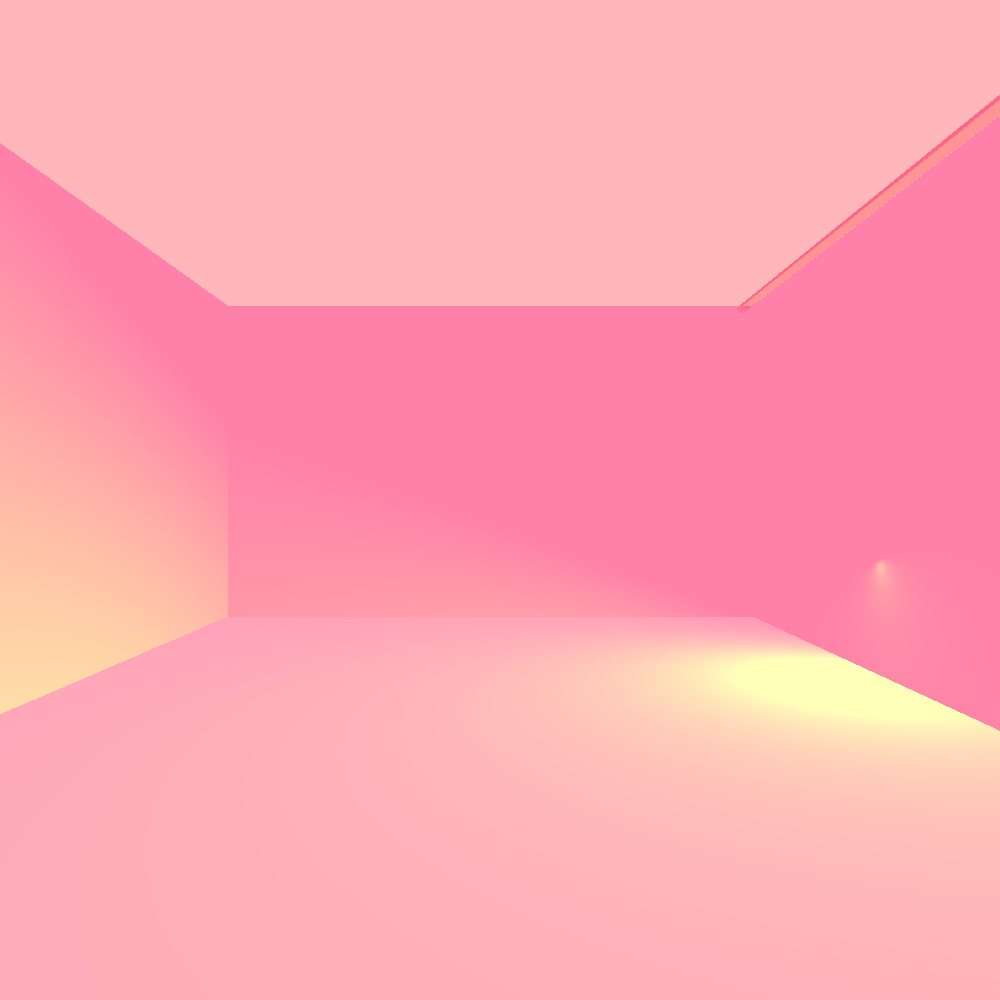
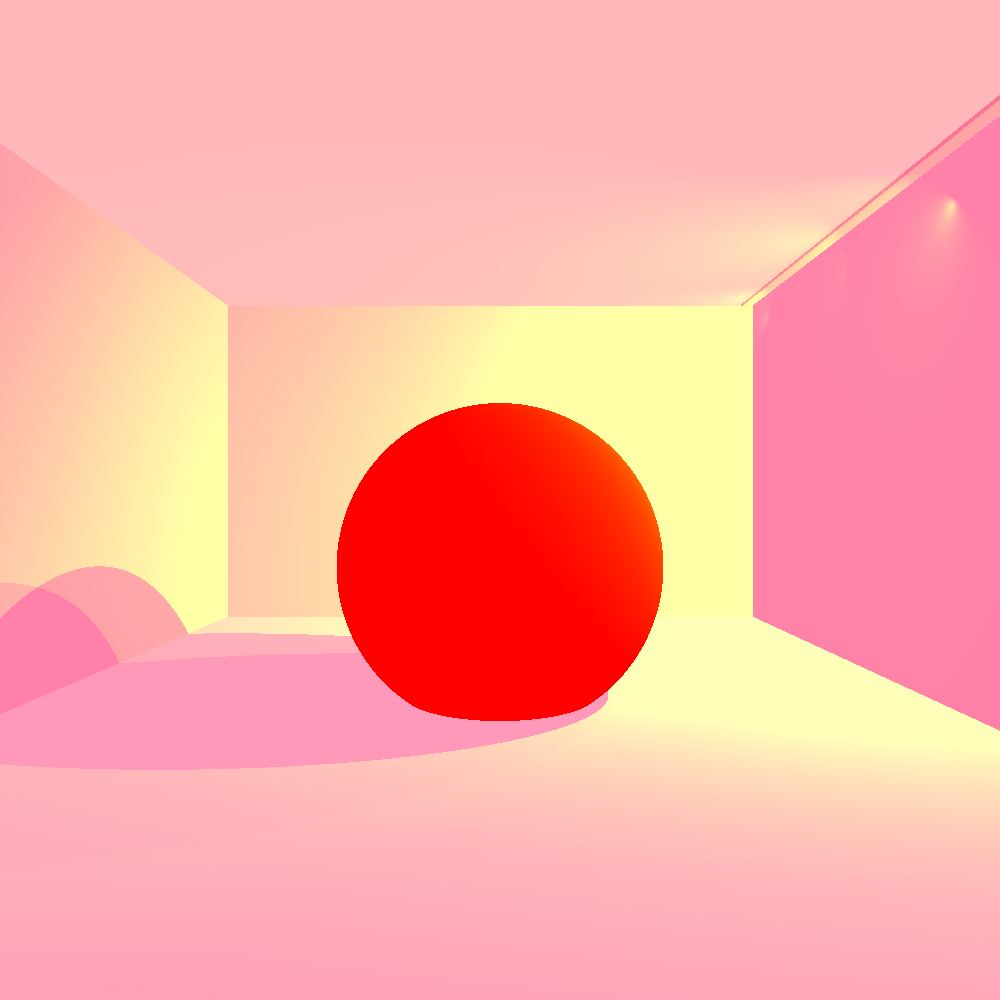
finish with the LED

diff --git a/unitTests/renderer/pinkRoomWithLed.java b/unitTests/renderer/pinkRoomWithLed.java
@@ -15,7 +15,9 @@ public class pinkRoomWithLed {
      */
     @Test
     public void miniProject1() {
-        Scene scene1 = new Scene.SceneBuilder("Test scene").build();
+
+        Scene scene1 = new Scene.SceneBuilder("Test scene")
+                .build();
 
         Camera camera3 = new Camera(new Point(-30, 30, 160),
                 new Vector(0, 0, -1), new Vector(0, 1, 0)) //
@@ -30,11 +32,9 @@ public class pinkRoomWithLed {
                 .setEmission(new Color(255, 183, 185))
                 .setMaterial(new Material().setKd(0.5));
 
-
         Geometry wallRight = new Plane(new Point(35, 0, 0), new Vector(1, 0, 0))
                 .setEmission(new Color(255, 128, 168))
                 .setMaterial(new Material().setKd(0.5));
-
 
         Geometry wallLeft = new Plane(new Point(-100, 0, 0), new Vector(1, 0, 0)) //++
                 .setEmission(new Color(255, 128, 168))
@@ -44,13 +44,17 @@ public class pinkRoomWithLed {
                 .setEmission(new Color(255, 128, 168))
                 .setMaterial(new Material().setKd(0.5));
 
-        //double radius = 2;
-        Ray axisray = new Ray(new Point(32, 79, 0), new Vector(0, 0, 1));
-        //double length = 1;
-
-        Geometry led = new Cylinder( 1, axisray, 0.1)
+        Geometry Sphere = new Sphere(new Point(-30, 20, 50), 25)
                 .setEmission(new Color(RED))
-                .setMaterial(new Material().setKd(0.5).setKs(0.5).setShininess(100).setKt(0.9));
+                .setMaterial(new Material().setKd(0.5));
+
+        double radius = 1;
+        Ray axisray = new Ray(new Point(32, 79, 0), new Vector(0, 0, 1));
+        double length = 0.1;
+
+        Geometry led = new Cylinder( radius, axisray, length)
+                .setEmission(new Color(RED))
+                .setMaterial(new Material().setKd(0.5).setKs(0.5).setShininess(100).setKt(0.95));
 
         //points lights
 //        for(int i = -15; i < 100; i+=5)
@@ -62,20 +66,26 @@ public class pinkRoomWithLed {
 //                    0.0111));
 //        }
 
-        //spot light
-//        {
-//            scene1.lights.add(new SpotLight(new Color(YELLOW),
-//                    new Point(34, 73, -10),
-//                    new Vector(-100, 0, -15)));
-//        }
-
-        {
-            scene1.lights.add(new SpotLight(new Color(YELLOW).scale(1.5),
-                    new Point(34, 20, 40),
-                    new Vector(-34, -70, 30)));
+        //spot lights:
+        {//middle up
+            scene1.lights.add(new SpotLight(new Color(YELLOW).scale(0.5),
+                    new Point(34, 73, -10),
+                    new Vector(0, 100, -100)));
         }
-        scene1.geometries.add(roof, wallRight, wallLeft, wallFront, floor, led);
 
+        {//middle right
+            scene1.lights.add(new SpotLight(new Color(YELLOW).scale(0.5),
+                    new Point(34, 73, 30),
+                    new Vector(-100, 0, -100)));
+        }
+
+        {//middle right
+            scene1.lights.add(new SpotLight(new Color(YELLOW).scale(1.5),
+                    new Point(34, 73, 60),
+                    new Vector(0, -100, -100)));
+        }
+
+       scene1.geometries.add(roof, wallRight, wallLeft, wallFront, floor, led, Sphere);
 
         ImageWriter imageWriter = new ImageWriter("pinkRoom", 1000, 1000);
         camera3.setImageWriter(imageWriter)

diff --git a/src/geometries/Sphere.java b/src/geometries/Sphere.java
@@ -144,59 +144,3 @@ public class Sphere extends RadialGeometry {
     }
 
 }
-//
-//public class Sphere extends RadialGeometry {
-//
-//    private final Point center;
-//
-//    /**
-//     * A ctor to initialize a Sphere with a radius and a center Point
-//     *
-//     * @param radius radius of the sphere
-//     * @param center center of the sphere
-//     */
-//    public Sphere(Point center, double radius) {
-//        super(radius);
-//        this.center = center;
-//    }
-//
-//    @Override
-//    public Vector getNormal(Point p) {
-//        return p.subtract(center).normalize();
-//    }
-//
-//    @Override
-//    public List<GeoPoint> findGeoIntersectionsHelper(Ray ray, double maxDis) {
-//        Point p0 = ray.getP0();
-//        Vector v = ray.getDir();
-//
-//        // if the ray starts at the center of the sphere, go with v direction
-//        if (center.equals(p0))
-//            return List.of(new GeoPoint(this, ray.getPoint(radius)));
-//
-//        Vector u = center.subtract(p0);
-//        double tm = v.dotProduct(u);
-//        double dd = u.lengthSquared() - tm * tm;
-//        double thth = (radius * radius) - dd;
-//        if (alignZero(thth) <= 0)
-//            return null;
-//        double th = Math.sqrt(thth);
-//
-//        double t1 = alignZero(tm - th);
-//        double t2 = alignZero(tm + th);
-//        // t1 <= t2 (always)
-//        // if P2 is behind or P1 is too far - both points are behind or too far
-//        if (t2 <= 0 || alignZero(t1 - maxDis) >= 0)
-//            return null;
-//
-//        // if P2 is too far
-//        if (alignZero(t2 - maxDis) >= 0)
-//            return t1 <= 0 ? null : List.of(new GeoPoint(this, ray.getPoint(t1)));
-//
-//        // P2 is OK (between the ray head and the max distance)
-//        return t1 <= 0 //
-//                ? List.of(new GeoPoint(this, ray.getPoint(t2))) //
-//                : List.of(new GeoPoint(this, ray.getPoint(t1)), new GeoPoint(this, ray.getPoint(t2)));
-//    }
-//
-//}
